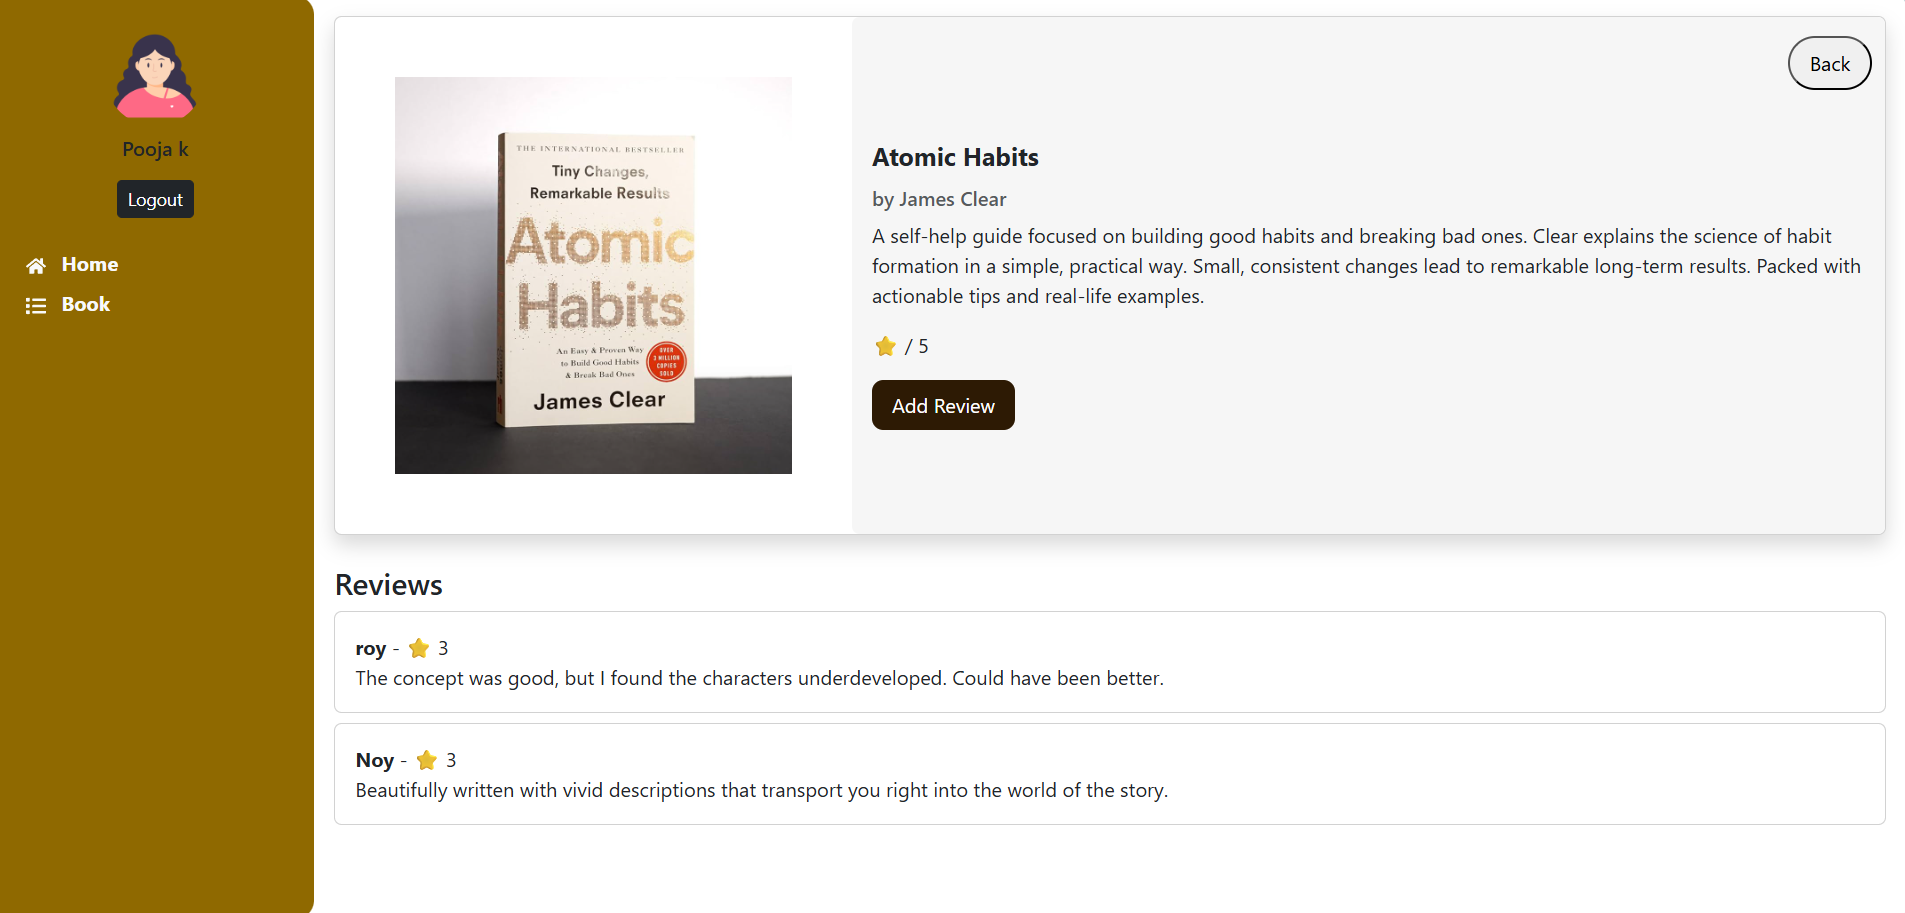
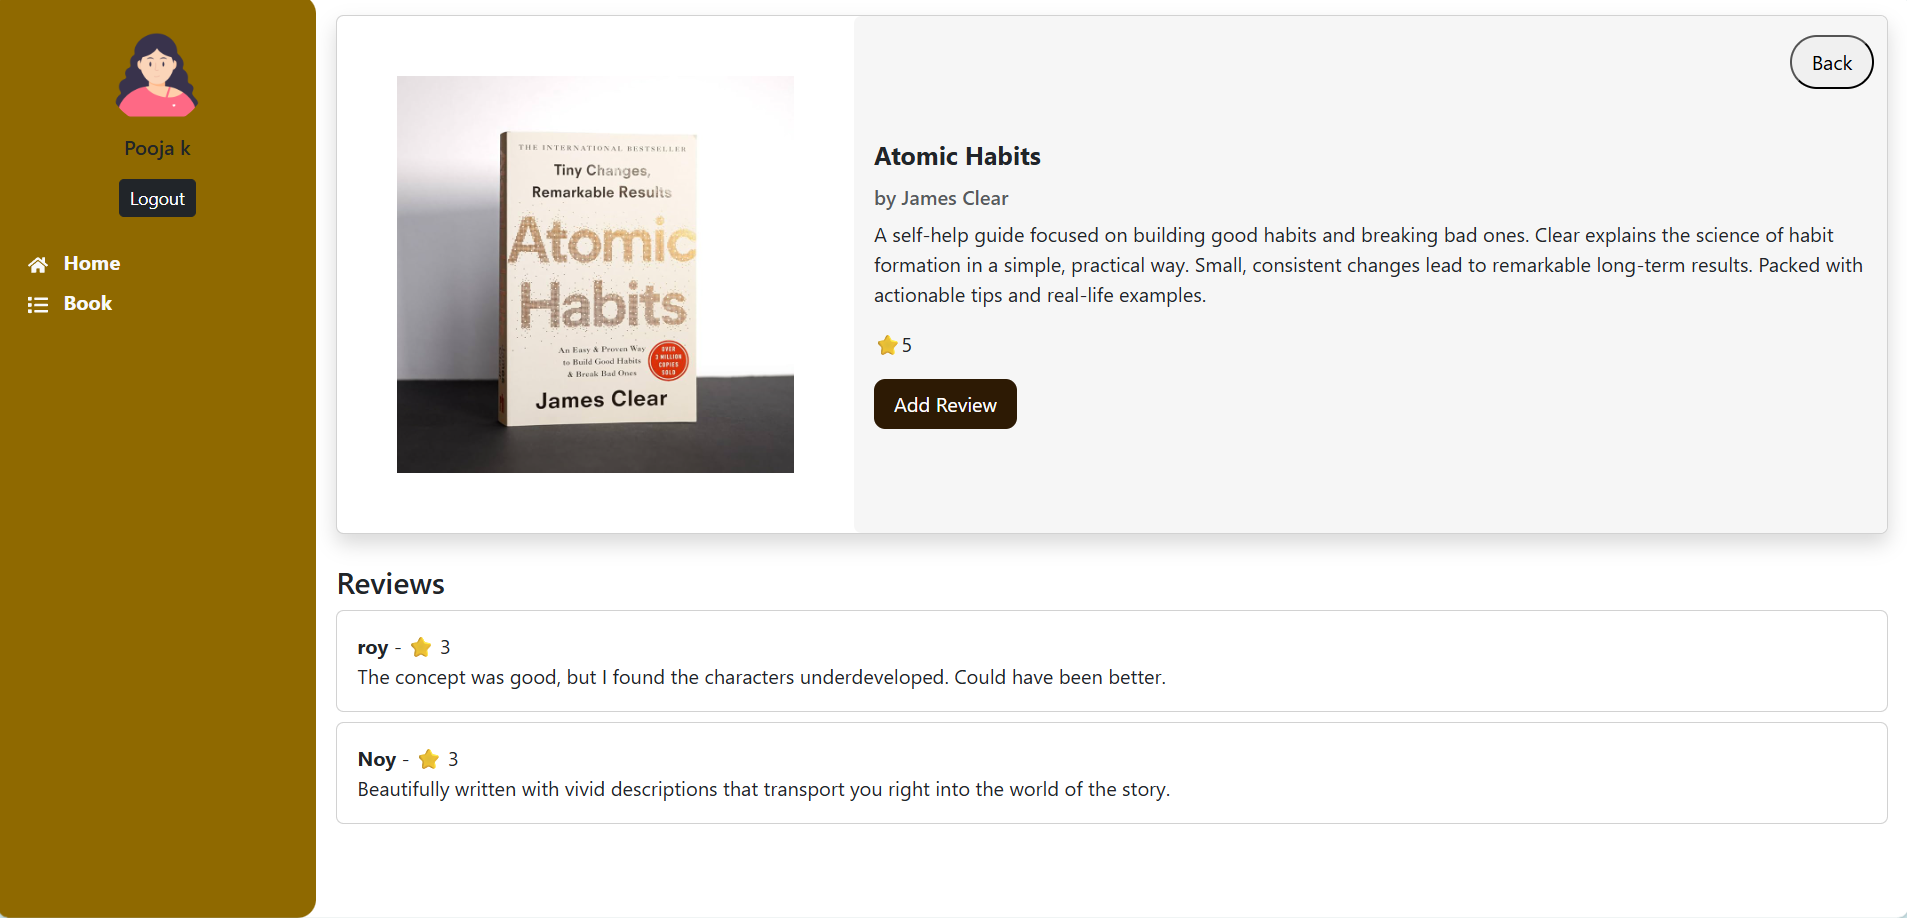
updated

diff --git a/src/components/Sidebar.jsx b/src/components/Sidebar.jsx
@@ -1,6 +1,6 @@
 // src/components/Sidebar.jsx
 import { Link, useNavigate } from "react-router-dom";
-import { FaHome, FaList } from "react-icons/fa";
+import { FaBook, FaHome, FaList } from "react-icons/fa";
 import { useContext, useEffect, useState } from "react";
 import { tokenContext } from "../context/CreateContext";
 
@@ -36,6 +36,7 @@ export default function Sidebar({ onClose }) {
       </button>
 
       <div className="text-center mb-4">
+        <h4 className="text-white fw-bold  mb-5"> <FaBook className="me-2" /> BOOKVERSE</h4>
         <img
           src="https://icons.veryicon.com/png/o/miscellaneous/user-avatar/user-avatar-female-9.png"
           alt="profile"
@@ -56,14 +57,14 @@ export default function Sidebar({ onClose }) {
         )}
       </div>
 
-      <div className=" ">
+      <div className=" mb-3 ">
         <div className="mb-2">
-          <Link to="/" className="text-decoration-none fw-bold text-light " onClick={onClose}>
+          <Link to="/" className="text-decoration-none  text-light " onClick={onClose}>
             <FaHome className="me-2"/> Home
           </Link>
         </div>
         <div>
-          <Link to="/book-list" className="text-decoration-none fw-bold text-light" onClick={onClose}>
+          <Link to="/book-list" className="text-decoration-none  text-light" onClick={onClose}>
             <FaList className="me-2" /> Book
           </Link>
         </div>

diff --git a/src/pages/Home.jsx b/src/pages/Home.jsx
@@ -76,7 +76,7 @@ export default function Home() {
             <FaBars />
           </button>
 
-          {/* Hero Section */}
+          {/* image Section */}
           <div
             className="text-white p-4 rounded d-flex flex-wrap justify-content-between align-items-center mb-4"
             style={{
@@ -95,9 +95,7 @@ export default function Home() {
                 style={{ maxWidth: "300px" }}
               />
             </div>
-            <div className="mt-3 mt-md-0">
-              <FaBell size={24} />
-            </div>
+            
           </div>
 
           {/* Popular Books */}

diff --git a/src/pages/BookDetail.jsx b/src/pages/BookDetail.jsx
@@ -103,7 +103,7 @@ const {token}= useContext(tokenContext)
                     by {book.author}
                   </Card.Subtitle>
                   <p>{book.description}</p>
-                  <p>⭐ {book.rating} / 5</p>
+                  <p>⭐5</p>
                   {token && <button  className="me-auto py-2 px-3 bt" onClick={() => setShowModal(true)}>
                     Add Review
                   </button>}
